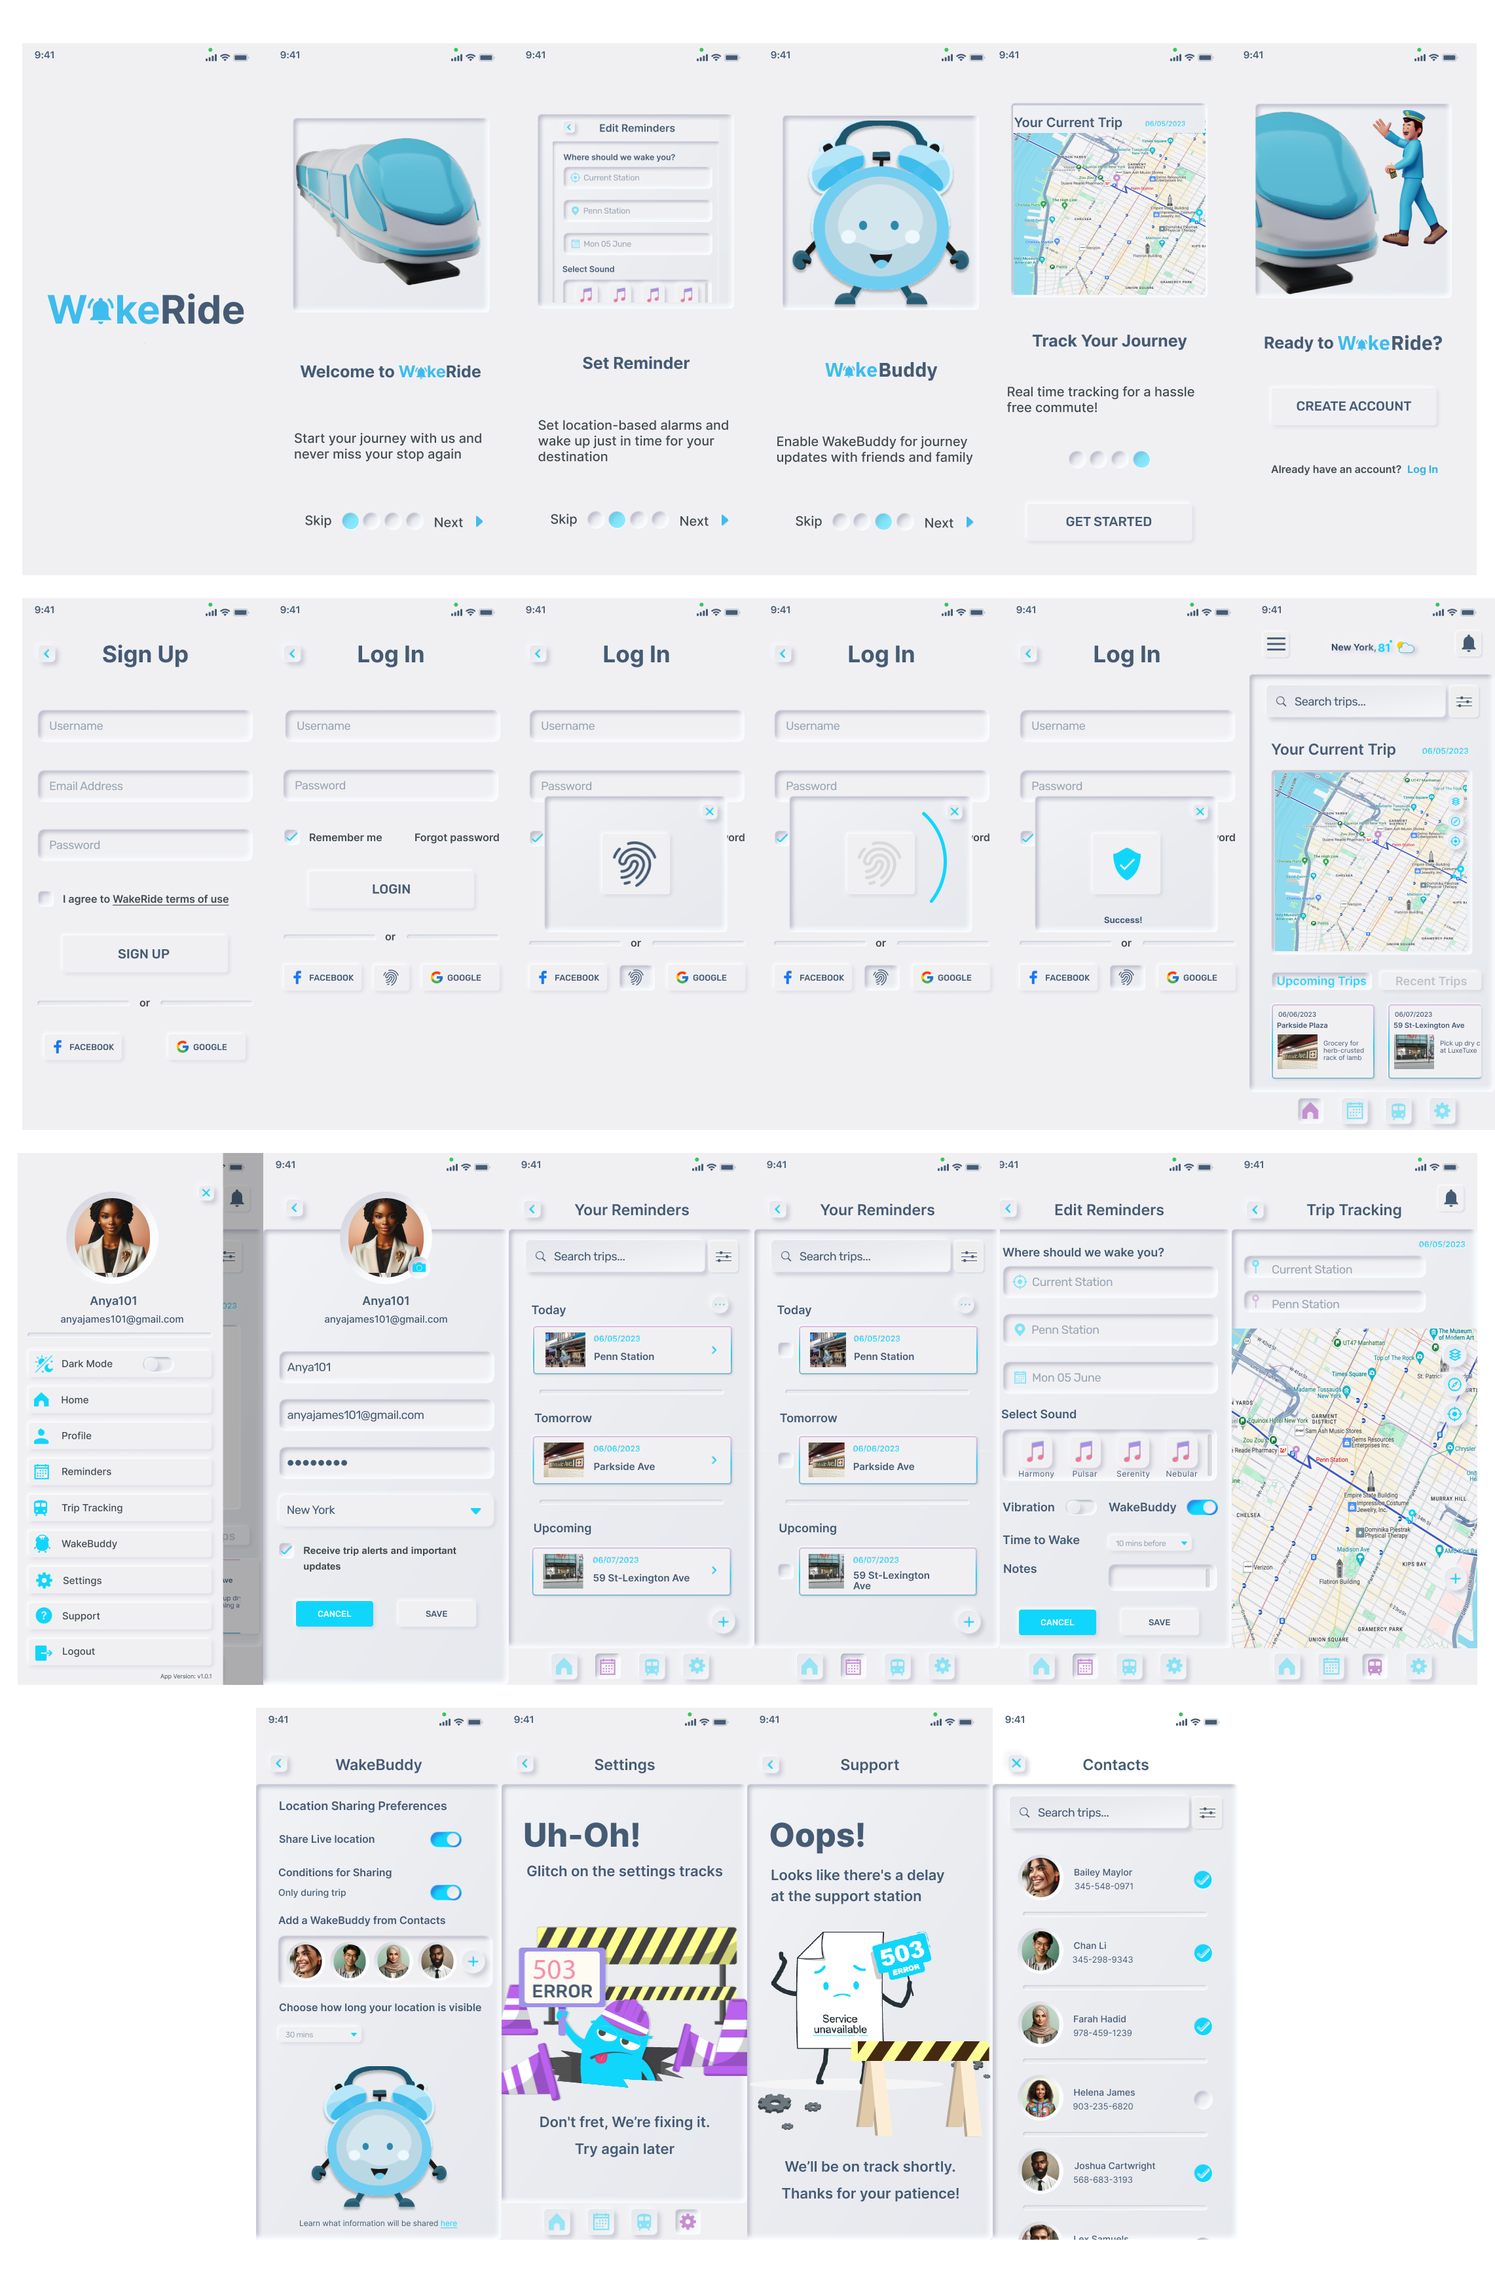
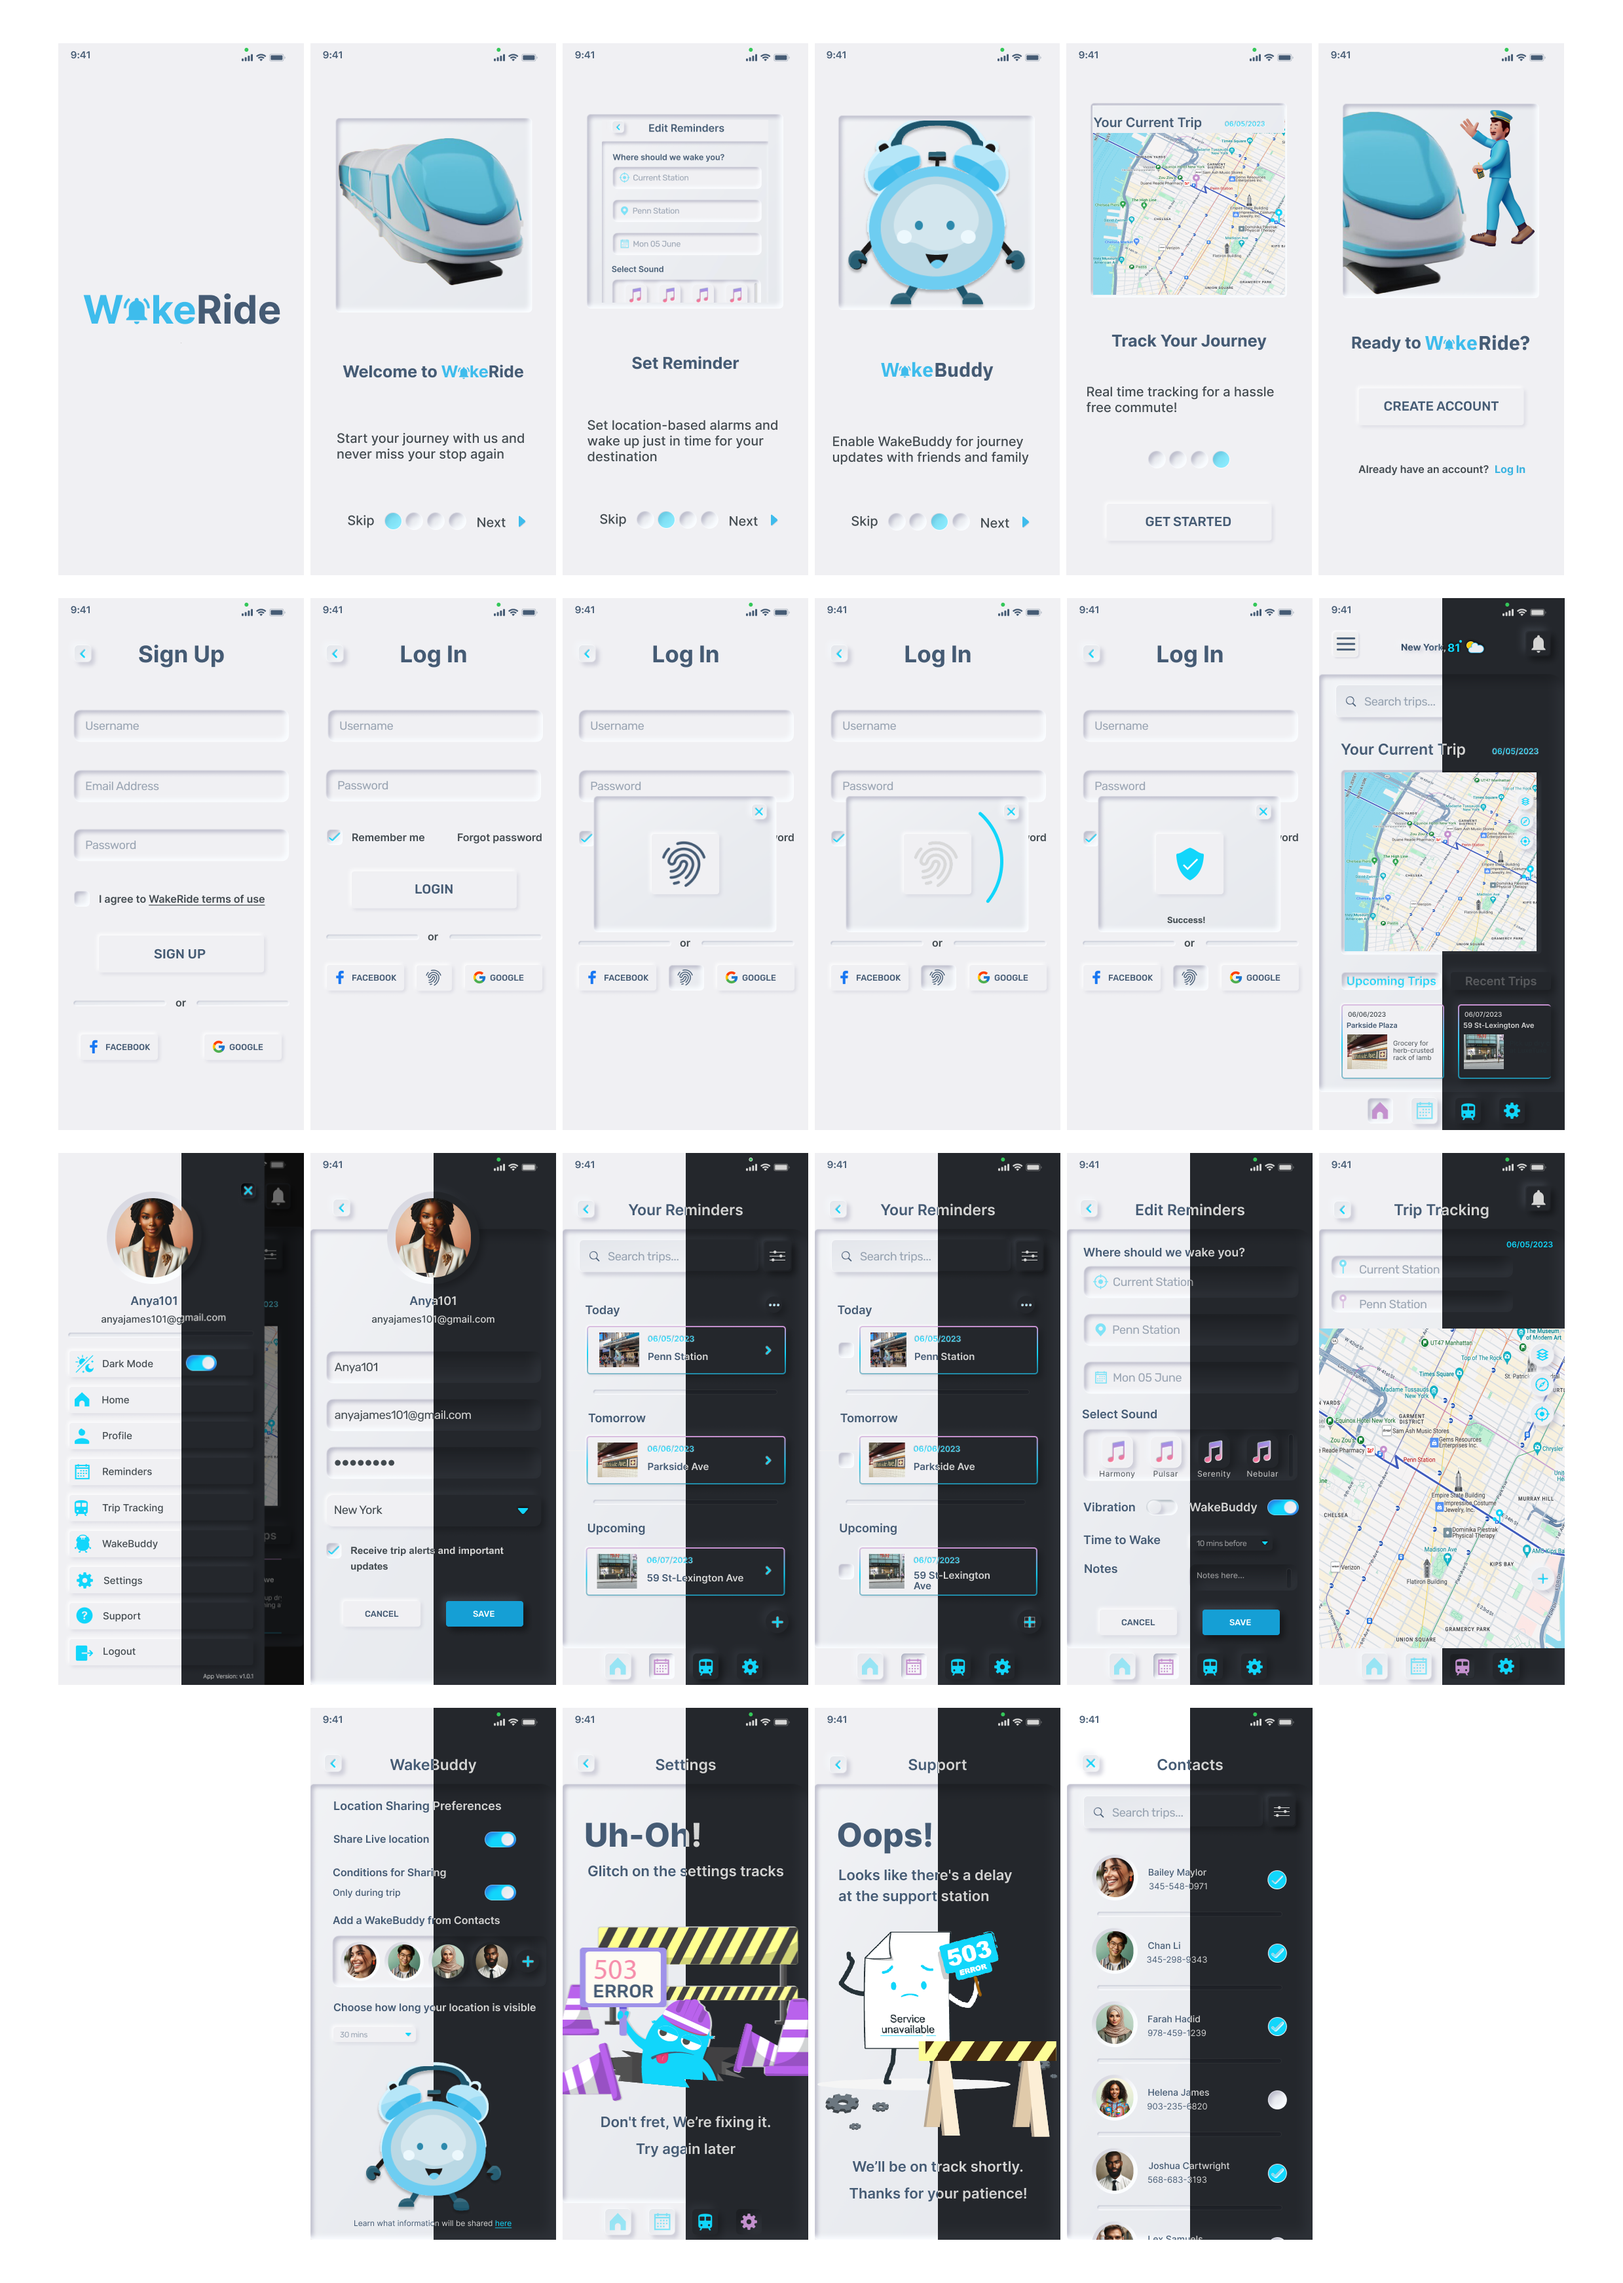
Updating with dark mode info

diff --git a/wakerideapp.html b/wakerideapp.html
@@ -188,8 +188,10 @@
                  <!-- Hi-Fi Wireframe -->
                  <div class="row single-column" id="hi-fi">
                     <div class="column">
-                        <h4 class="sub-heading">High-Fidelity Wireframe</h4>
+                        <h4 class="sub-heading-hifi">High-Fidelity Wireframe (light/dark mode)</h4>
                         <img src="./images/wakeride/high-fidelity.png" alt="High-fidelity wireframe of WakeRide mobile train app" class="hi-fi">    
+                        <p class="center">For screens with dark mode feature, the right half depicts dark mode 
+                        </p>
                     </div>
                 </div>
 
@@ -206,6 +208,9 @@
                         <p class="line-height-research">•<strong>Bottom Navigation:</strong>Employing a bottom navigation approach enhances accessibility, allowing users to navigate seamlessly with one hand, optimizing the mobile experience.</p>
 
                         <p class="line-height-research">•<strong>'More' Button on Trip Tracking Screen:</strong>The ‘more' button on the Trip Tracking screen was designed as a two-step process for a layer of caution to prevent accidental interactions, like canceling or pausing journeys. 
+                        </p> 
+
+                        <p class="line-height-research">•<strong>Dark Mode:</strong>Incorporated dark mode as it enhances user accessibility by reducing eye strain in low-light environments. It also aligns with current design trends, catering to diverse user preferences for a more inclusive and adaptable user interface. 
                         </p> 
                     </div>
                     <div class="column position">

diff --git a/wakeride-style.css b/wakeride-style.css
@@ -146,7 +146,7 @@ p, ul, li {
      margin-right: 30px;
 }
 
-.dark-mode-theme .heading, .dark-mode-theme .sub-heading{
+.dark-mode-theme .heading, .dark-mode-theme .sub-heading,.dark-mode-theme .sub-heading-hifi{
     color: var(--snow);
 }
 /* Main section */
@@ -361,6 +361,15 @@ p, ul, li {
     margin-bottom: 25px;
     color: var(--noir);
 }
+
+.sub-heading-hifi {
+    font-size: 32px;
+    margin-top: 50px;
+    margin-bottom: 25px;
+    color: var(--noir);
+    margin-left: 30px;
+}
+
 
 .iso1 {
     width: 680px;
